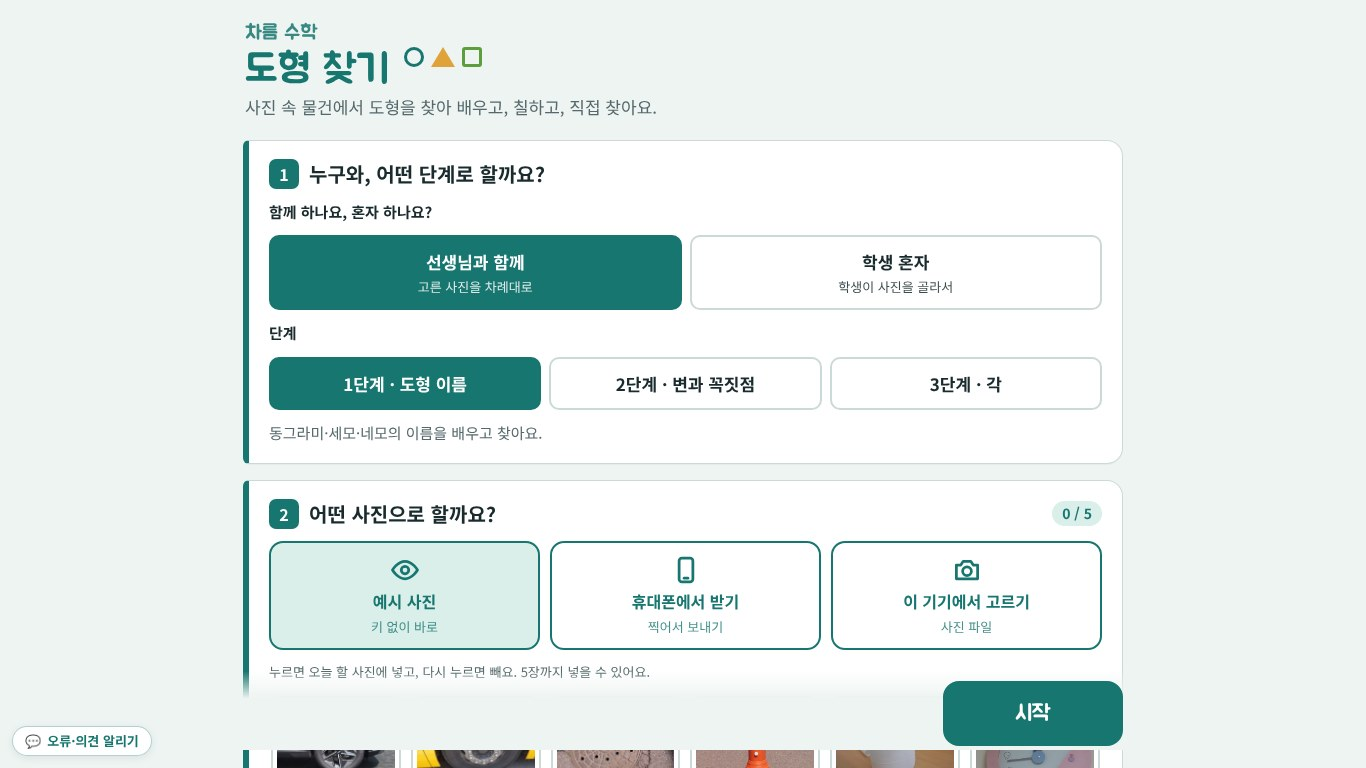
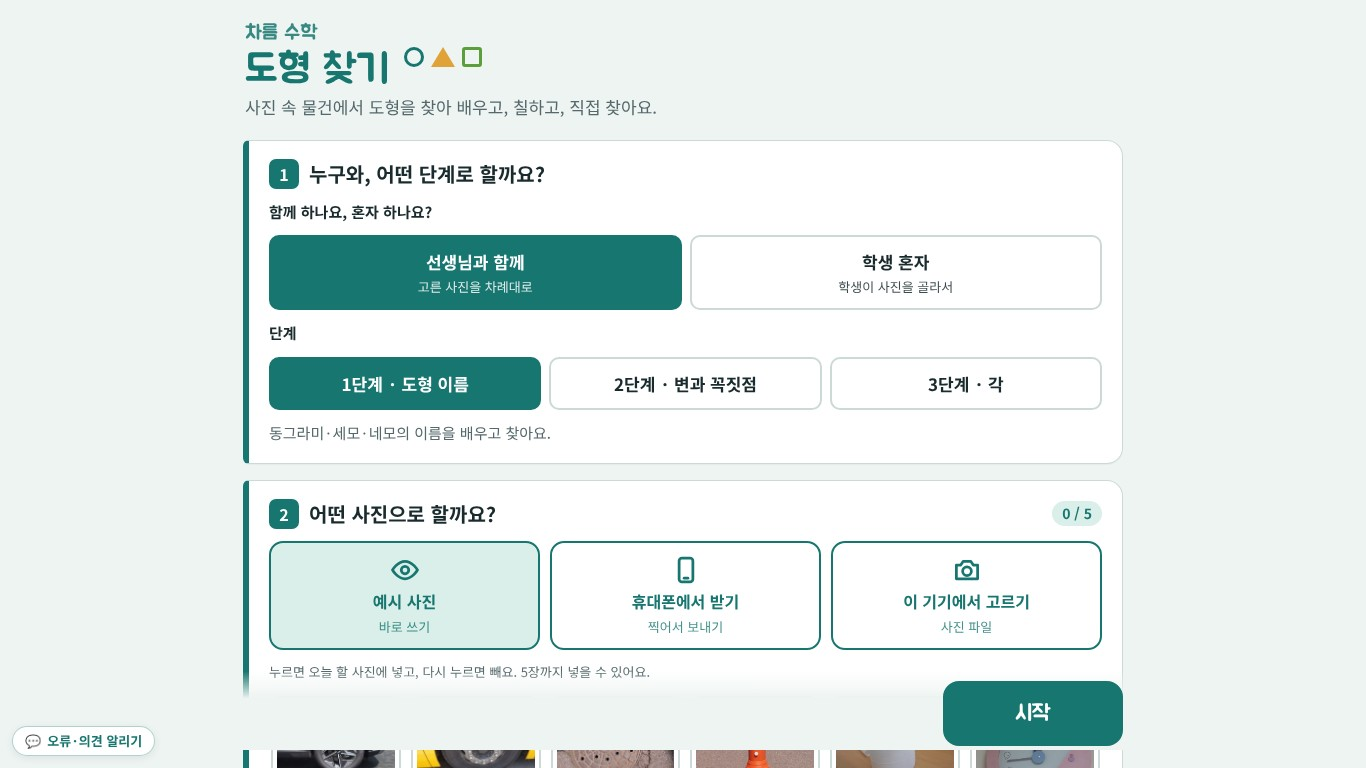
001 캡처 01 다시 찍음(예시 사진 '바로 쓰기'), 휴대폰 세로 색칠 팔레트 잘림 고침, 끝까지 돌려 본 확인 기록
함께·혼자, 1~3단계, 사진 1~5장, 네 화면 크기로 처음부터 수업 끝내기까지 돌려 봄 — 멈춤·오류 없음.
휴대폰 세로에서 팔레트 8칸이 화면 밖으로 잘려 6칸(46px)으로 바꿈.

Claude-Session: https://claude.ai/code/session_01Wjm5ogA9ZD3viUC998gBMD

diff --git a/001/shape-finder.html b/001/shape-finder.html
@@ -407,6 +407,7 @@ details.card.more .btn{min-height:40px;padding:6px 14px;font-size:15px;border-ra
 .pal{width:58px;height:58px;border-radius:50%;border:4px solid #fff;background:var(--c);box-shadow:0 0 0 1px rgba(0,0,0,.15);cursor:pointer;touch-action:none}
 .pal[aria-pressed="true"]{box-shadow:0 0 0 4px var(--ink)}
 @media (orientation:portrait){.color-wrap{flex-direction:column}.palette{grid-template-columns:repeat(8,52px);justify-content:center}.pal{width:52px;height:52px}}
+@media (orientation:portrait) and (max-width:520px){.palette{grid-template-columns:repeat(6,46px);gap:8px}.pal{width:46px;height:46px;border-width:3px}}   /* 휴대폰 세로: 8칸이면 화면 밖으로 잘림(2026-11-11) */
 @media (max-height:700px) and (orientation:landscape){.palette{grid-template-columns:repeat(3,50px);gap:8px}.pal{width:50px;height:50px}}
 .end-btns{justify-content:center;margin-top:10px;flex:none}
 .end-swap{font-family:var(--f-display);font-size:20px;font-weight:400;border-color:var(--accent);color:var(--accent)}
